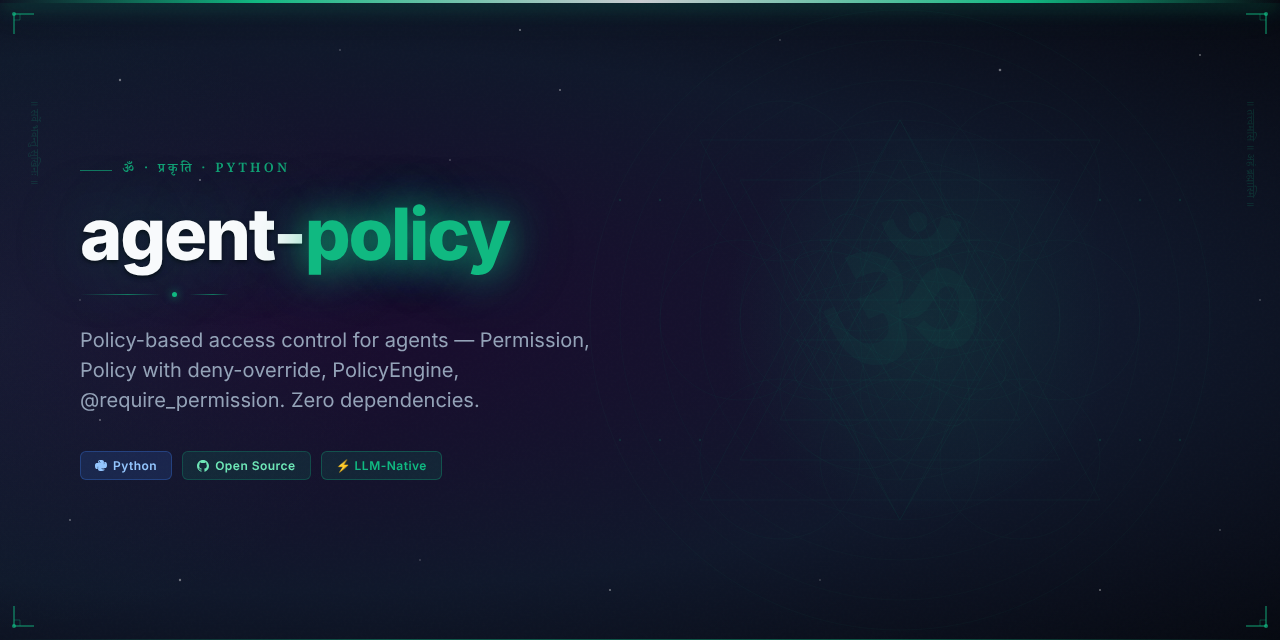
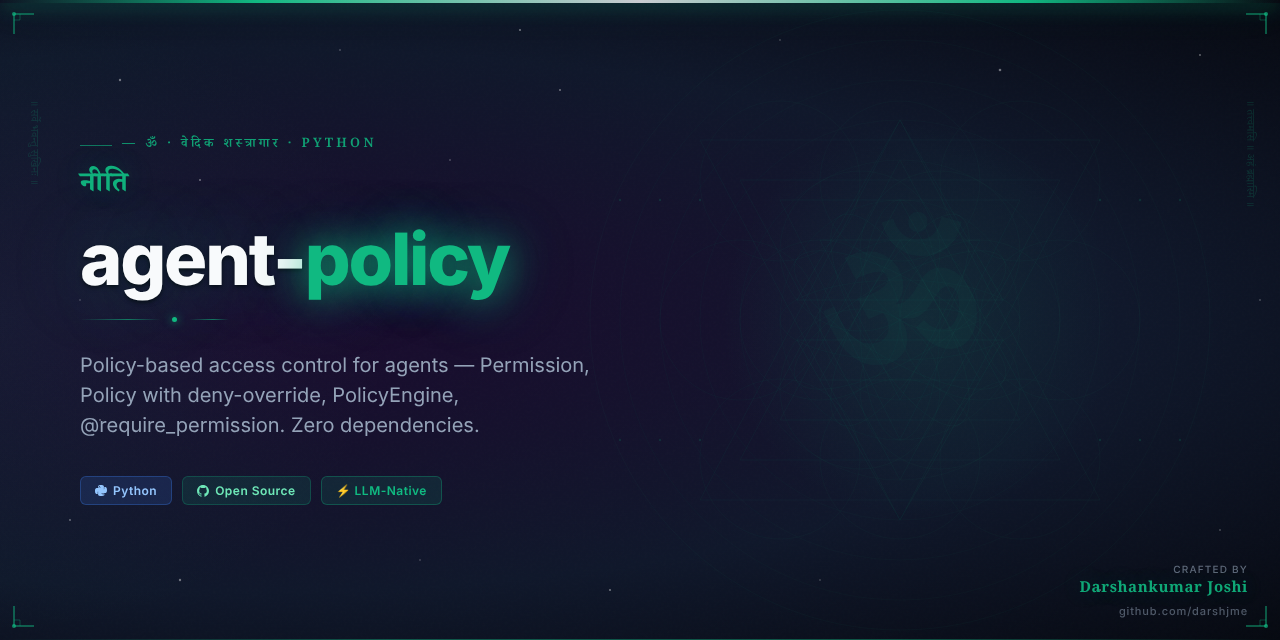
feat: add Vedic Arsenal hero image and updated README
Part of darshjme/arsenal — 100 production-grade Python libraries for LLM agents.
Vedic branding: ancient philosophy meets modern AI engineering.

diff --git a/README.md b/README.md
@@ -1,10 +1,12 @@
 <div align="center">
 
-<img src="assets/agent-policy-hero.png" alt="agent-policy — Vedic Arsenal" width="100%" />
+<img src="assets/agent-policy-hero.png" alt="agent-policy — Vedic Arsenal by Darshankumar Joshi" width="100%" />
 
 # 🌿 agent-policy
 
-### *नीति* — Niti — divine policy, the dharma of rules
+<h3><em>नीति</em></h3>
+
+> *Niti — divine policy, the dharma of rules*
 
 **Policy-based access control for agents — Permission, Policy with deny-override, PolicyEngine, @require_permission. Zero dependencies.**
 
@@ -39,6 +41,19 @@ Or clone directly:
 git clone https://github.com/darshjme/agent-policy.git
 cd agent-policy
 pip install -e .
+```
+
+## How It Works
+
+```mermaid
+flowchart LR
+    A[Input] --> B[agent-policy]
+    B --> C{Process}
+    C -- Success --> D[Output]
+    C -- Error --> E[Handle / Retry]
+    E --> B
+    style B fill:#6b21a8,color:#fff
+    note["Policy — Zero Dependencies"]
 ```
 
 ## Quick Start
@@ -90,7 +105,7 @@ MIT — use freely, build freely.
 
 <div align="center">
 
-**Built with 🌿 by [Darshankumar Joshi](https://github.com/darshjme)**
+**Built with 🌿 by [Darshankumar Joshi](https://github.com/darshjme)** · [@thedarshanjoshi](https://twitter.com/thedarshanjoshi)
 
 *"कर्मण्येवाधिकारस्ते मा फलेषु कदाचन"*
 *Your right is to action alone, never to the fruits thereof.*
